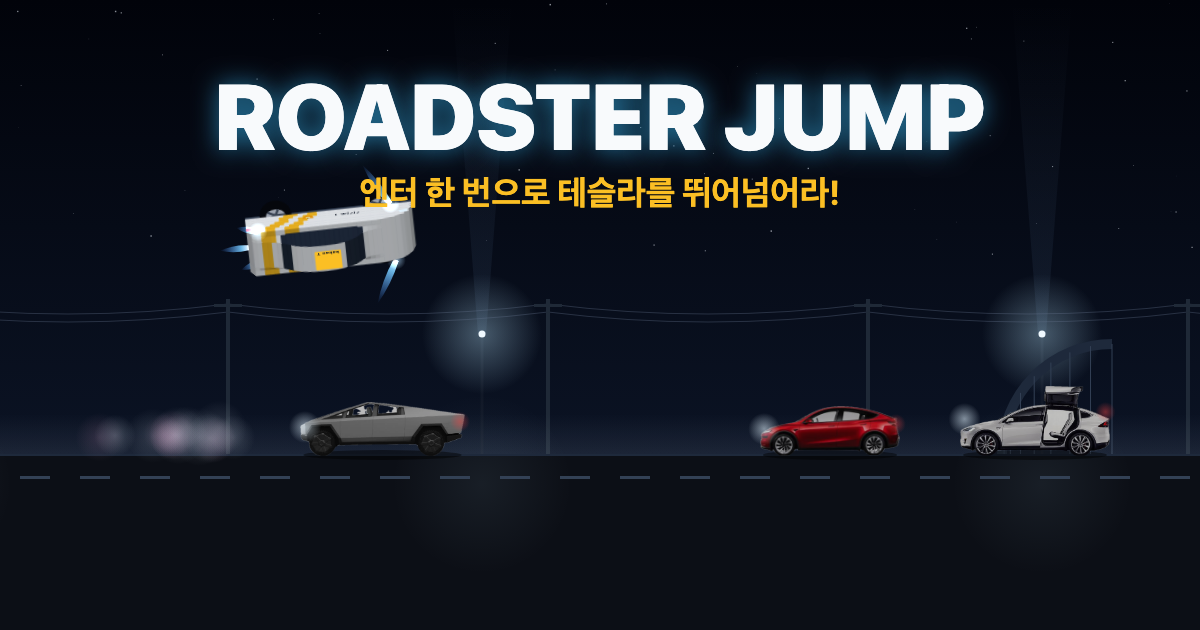
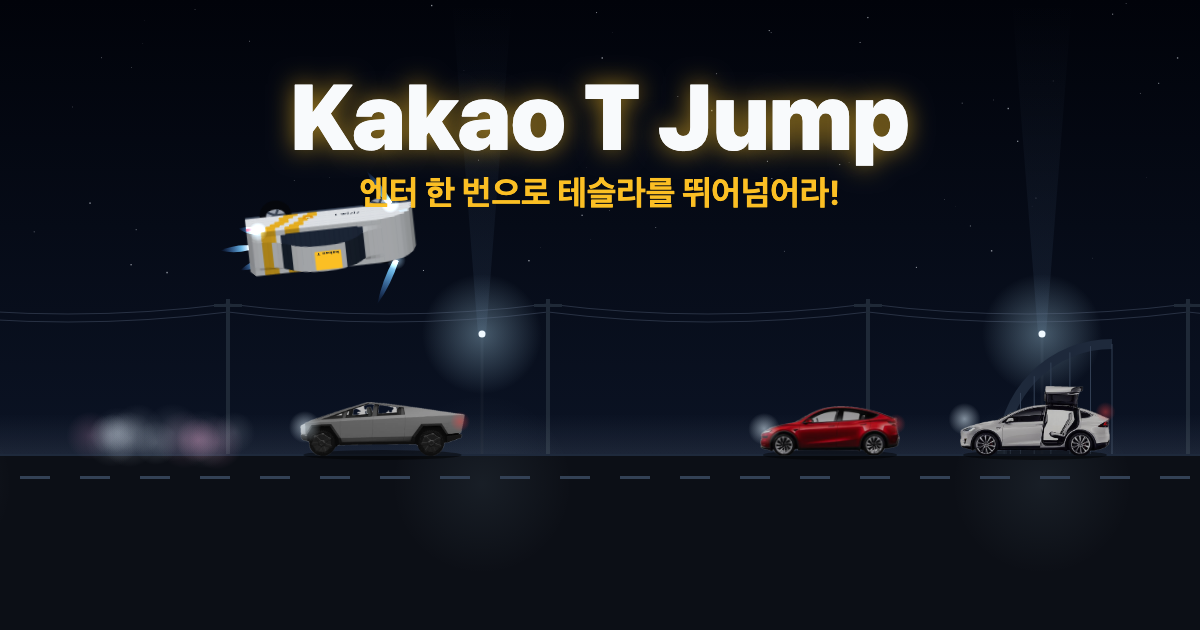
chore: 게임 이름을 Kakao T Jump로 변경
- 페이지 제목, 공유 미리보기(OG/Twitter), 시작 화면 타이틀 변경
- 공유 썸네일 이미지 타이틀 재생성

Changed region(s): [[0.1542, 0.1206, 0.8325, 0.2714], [0.0617, 0.6635, 0.185, 0.7238]]

diff --git a/index.html b/index.html
@@ -3,20 +3,20 @@
 <head>
 <meta charset="utf-8">
 <meta name="viewport" content="width=device-width, initial-scale=1, maximum-scale=1, user-scalable=no">
-<title>Roadster Jump</title>
+<title>Kakao T Jump</title>
 <meta name="description" content="엔터 한 번으로 테슬라를 뛰어넘어라! 배럴롤 점프 원버튼 게임">
 <meta name="theme-color" content="#020617">
 <!-- 링크 공유 미리보기 (카카오톡·슬랙·페이스북 등: Open Graph / X: Twitter Card) -->
 <!-- og:image·og:url 은 배포 주소 기준 절대 경로여야 썸네일이 표시됨 -->
 <meta property="og:type" content="website">
-<meta property="og:title" content="Roadster Jump">
+<meta property="og:title" content="Kakao T Jump">
 <meta property="og:description" content="엔터 한 번으로 테슬라를 뛰어넘어라! 배럴롤 점프 원버튼 게임">
 <meta property="og:image" content="https://lapin-world.github.io/car-jump/assets/og-image.png">
 <meta property="og:image:width" content="1200">
 <meta property="og:image:height" content="630">
 <meta property="og:url" content="https://lapin-world.github.io/car-jump/">
 <meta name="twitter:card" content="summary_large_image">
-<meta name="twitter:title" content="Roadster Jump">
+<meta name="twitter:title" content="Kakao T Jump">
 <meta name="twitter:description" content="엔터 한 번으로 테슬라를 뛰어넘어라!">
 <meta name="twitter:image" content="https://lapin-world.github.io/car-jump/assets/og-image.png">
 <style>
@@ -796,7 +796,7 @@
     ctx.textAlign = 'center';
     if (state === 'ready') {
       ctx.font = 'bold 32px system-ui, sans-serif';
-      ctx.fillText('ROADSTER JUMP', W / 2, H * 0.3);
+      ctx.fillText('Kakao T Jump', W / 2, H * 0.3);
       ctx.font = '16px system-ui, sans-serif';
       ctx.fillText('Enter / Space / 탭으로 점프', W / 2, H * 0.3 + 32);
       ctx.fillText('배럴롤로 차량을 넘어라!', W / 2, H * 0.3 + 54);
